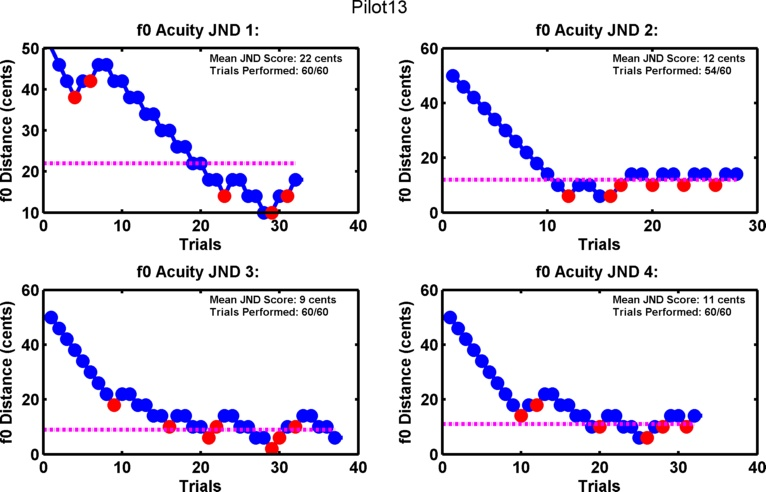
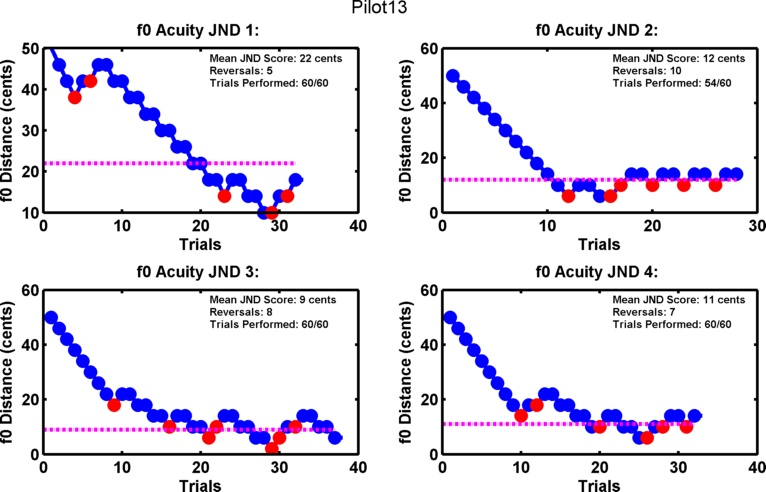
add info about # reversals
now I know how many reversals are in here

diff --git a/Analysis/drawJNDResults.m b/Analysis/drawJNDResults.m
@@ -24,9 +24,11 @@ for ii = runs2Analyze
     if isfield(UD, 'JNDDirection')
         note = UD.JNDDirection;
         anno2 = ['Catch Accuracy: ' num2str(catchAccu) '%'];
+        anno3 = [];
     else
         note = [];
-        anno2 = ['Trials Performed: ' num2str(UD.performedTrials) '/' num2str(UD.totalTrials)];
+        anno2 = ['Reversals: ' num2str(UD.reversals)];
+        anno3 = ['Trials Performed: ' num2str(UD.performedTrials) '/' num2str(UD.totalTrials)];
     end
     
     axes(ha(ii))
@@ -41,7 +43,8 @@ for ii = runs2Analyze
     
     t = annotation('textbox',[annoPos(ii,1) annoPos(ii,2) 0.45 0.1],...
                    'string', {['Mean JND Score: ' num2str(meanJND) ' cents'];...
-                                                  anno2},...
+                                                  anno2;...
+                                                  anno3},...
                     'LineStyle','none',...
                     'FontWeight','bold',...
                     'FontSize',8,...

diff --git a/Analysis/dfAnalysisJND.m b/Analysis/dfAnalysisJND.m
@@ -1,7 +1,7 @@
 function dfAnalysisJND()
 
 JNDa.project      = 'Dissociating-Role-of-Feedback-in-Voice-Motor-Control';
-JNDa.participant  = 'Pilot13'; %List of multiple participants.
+JNDa.participant  = 'Pilot12'; %List of multiple participants.
 runs2Analyze      = 1:4;
 
 dirs = dfDirs(JNDa.project);
